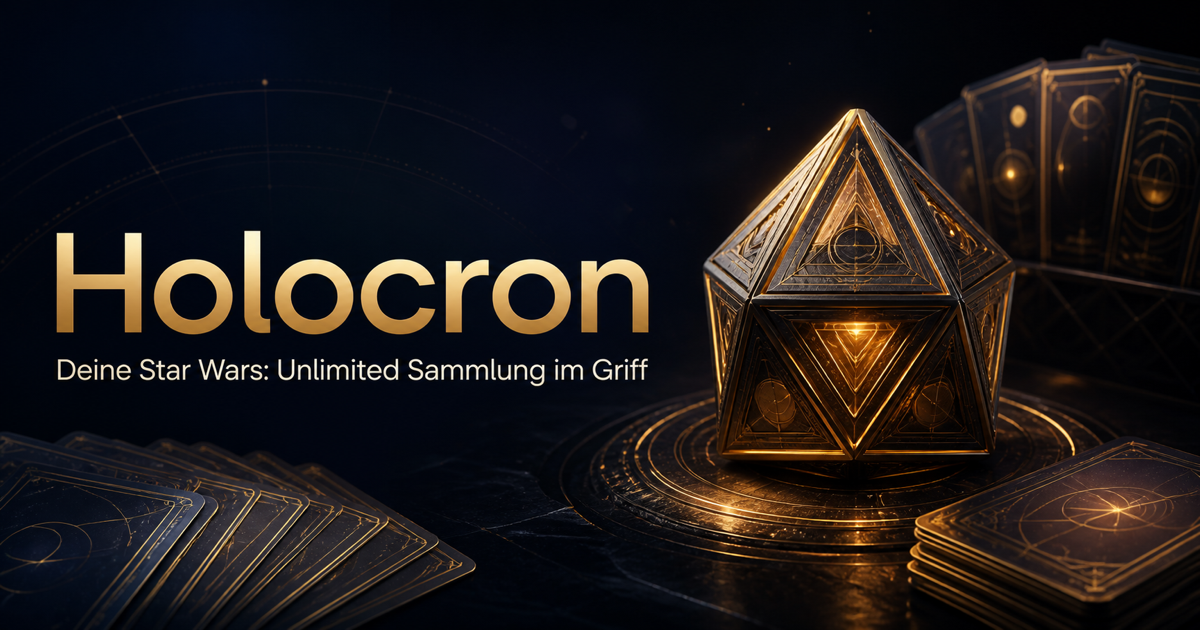
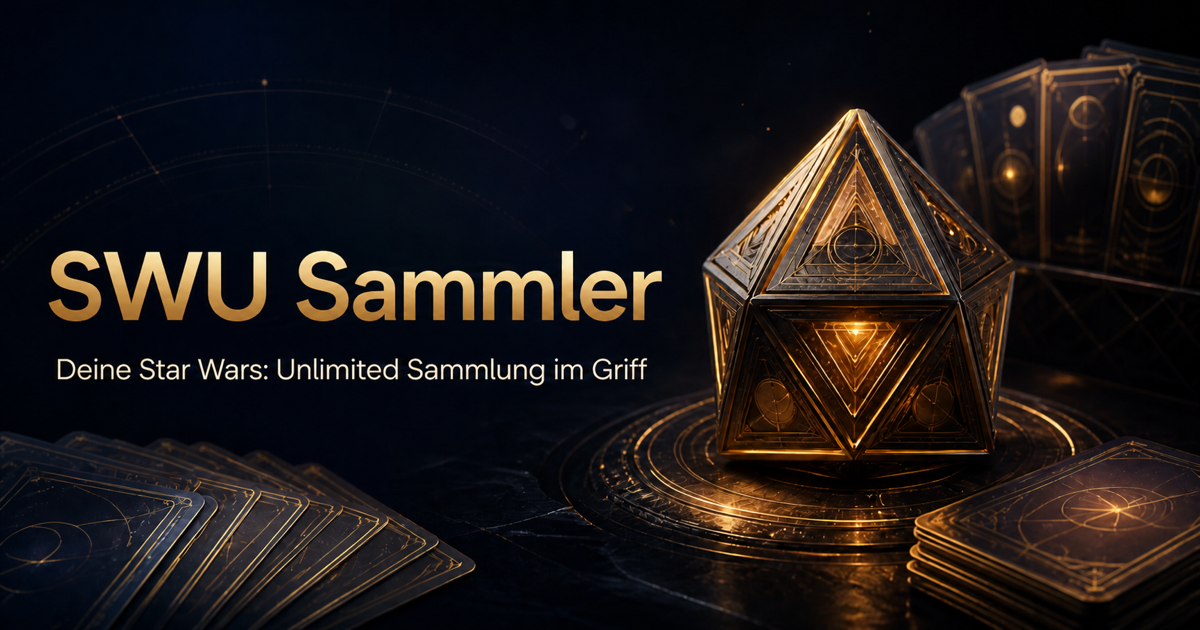
Rename app to SWU Sammler

diff --git a/app/collection-app.tsx b/app/collection-app.tsx
@@ -89,7 +89,7 @@ export default function CollectionApp({ user }: { user: { name: string; email: s
 
   function exportCollection() {
     const blob = new Blob([JSON.stringify(cards, null, 2)], { type: 'application/json' });
-    const url = URL.createObjectURL(blob); const link = document.createElement('a'); link.href = url; link.download = 'holocron-sammlung.json'; link.click(); URL.revokeObjectURL(url);
+    const url = URL.createObjectURL(blob); const link = document.createElement('a'); link.href = url; link.download = 'swu-sammler-sammlung.json'; link.click(); URL.revokeObjectURL(url);
   }
 
   async function importCollection(file?: File) {
@@ -100,7 +100,7 @@ export default function CollectionApp({ user }: { user: { name: string; email: s
   return <main className="min-h-screen bg-background text-foreground">
     <header className="border-b border-white/8 bg-[#090b10]/92 backdrop-blur-xl">
       <div className="mx-auto flex max-w-[1440px] items-center justify-between px-5 py-4 lg:px-8">
-        <div className="flex items-center gap-3"><div className="grid size-10 place-items-center rounded-xl border border-amber-300/25 bg-amber-300/10 text-amber-300"><Layers3 /></div><div><p className="text-lg font-bold tracking-tight">Holocron</p><p className="text-xs text-slate-400">SWU Collection Tracker</p></div></div>
+        <div className="flex items-center gap-3"><div className="grid size-10 place-items-center rounded-xl border border-amber-300/25 bg-amber-300/10 text-amber-300"><Layers3 /></div><div><p className="text-lg font-bold tracking-tight">SWU Sammler</p><p className="text-xs text-slate-400">Collection Tracker</p></div></div>
         <div className="flex items-center gap-2"><input ref={fileRef} type="file" accept="application/json" className="hidden" onChange={(event) => void importCollection(event.target.files?.[0])} /><Button variant="ghost" onClick={exportCollection} className="hidden text-slate-300 sm:flex"><Download /> Export</Button><Button variant="outline" onClick={() => fileRef.current?.click()} className="hidden border-white/10 bg-white/5 text-slate-200 sm:flex"><Upload /> Import</Button>{user ? <div className="grid size-9 place-items-center rounded-full bg-amber-300 font-bold text-slate-950" title={user.email}>{user.name.charAt(0).toUpperCase()}</div> : <a href="/signin-with-chatgpt?return_to=%2F" target="_top" className="rounded-lg bg-amber-300 px-3 py-2 text-sm font-semibold text-slate-950">Anmelden</a>}</div>
       </div>
     </header>

diff --git a/app/layout.tsx b/app/layout.tsx
@@ -13,16 +13,16 @@ const geistMono = Geist_Mono({
 });
 
 export const metadata: Metadata = {
-  title: 'Holocron – SWU Collection Tracker',
+  title: 'SWU Sammler – Collection Tracker',
   description: 'Star Wars: Unlimited Sammlung schnell und übersichtlich verwalten.',
   openGraph: {
-    title: 'Holocron – SWU Collection Tracker',
+    title: 'SWU Sammler – Collection Tracker',
     description: 'Deine Star Wars: Unlimited Sammlung im Griff.',
-    images: [{ url: '/og.png', width: 1200, height: 630, alt: 'Holocron – SWU Collection Tracker' }],
+    images: [{ url: '/og.png', width: 1200, height: 630, alt: 'SWU Sammler – Collection Tracker' }],
   },
   twitter: {
     card: 'summary_large_image',
-    title: 'Holocron – SWU Collection Tracker',
+    title: 'SWU Sammler – Collection Tracker',
     description: 'Deine Star Wars: Unlimited Sammlung im Griff.',
     images: ['/og.png'],
   },
